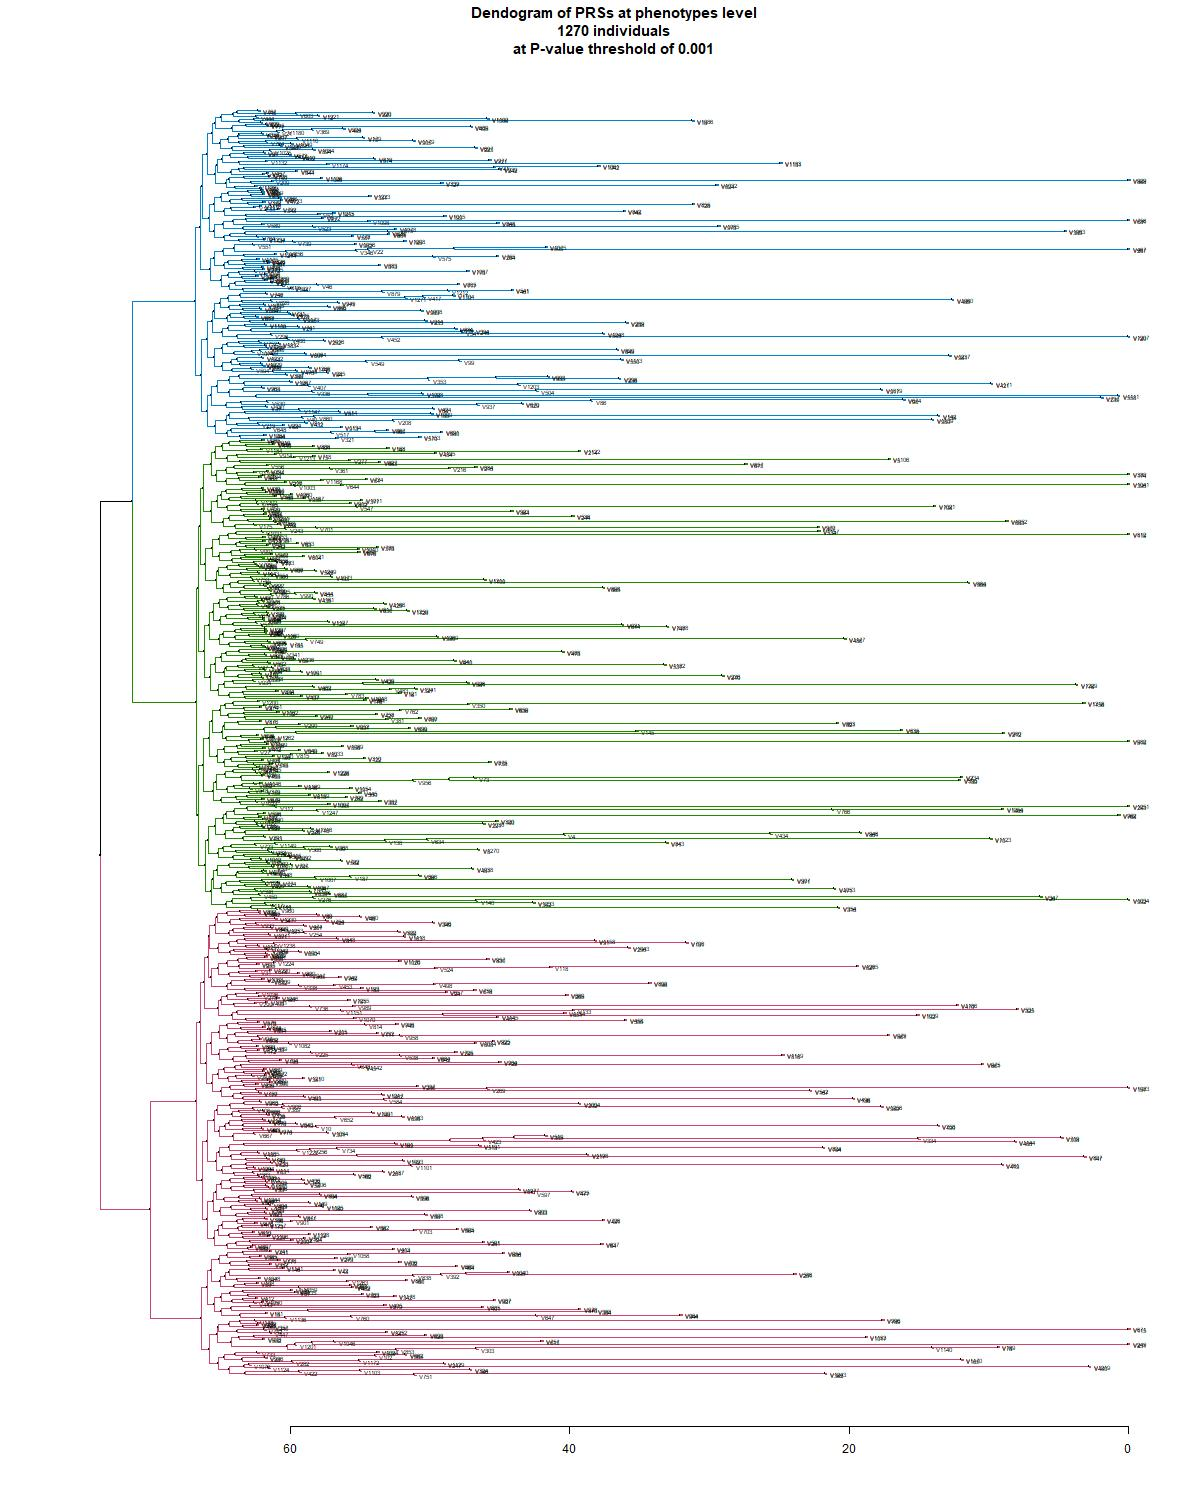
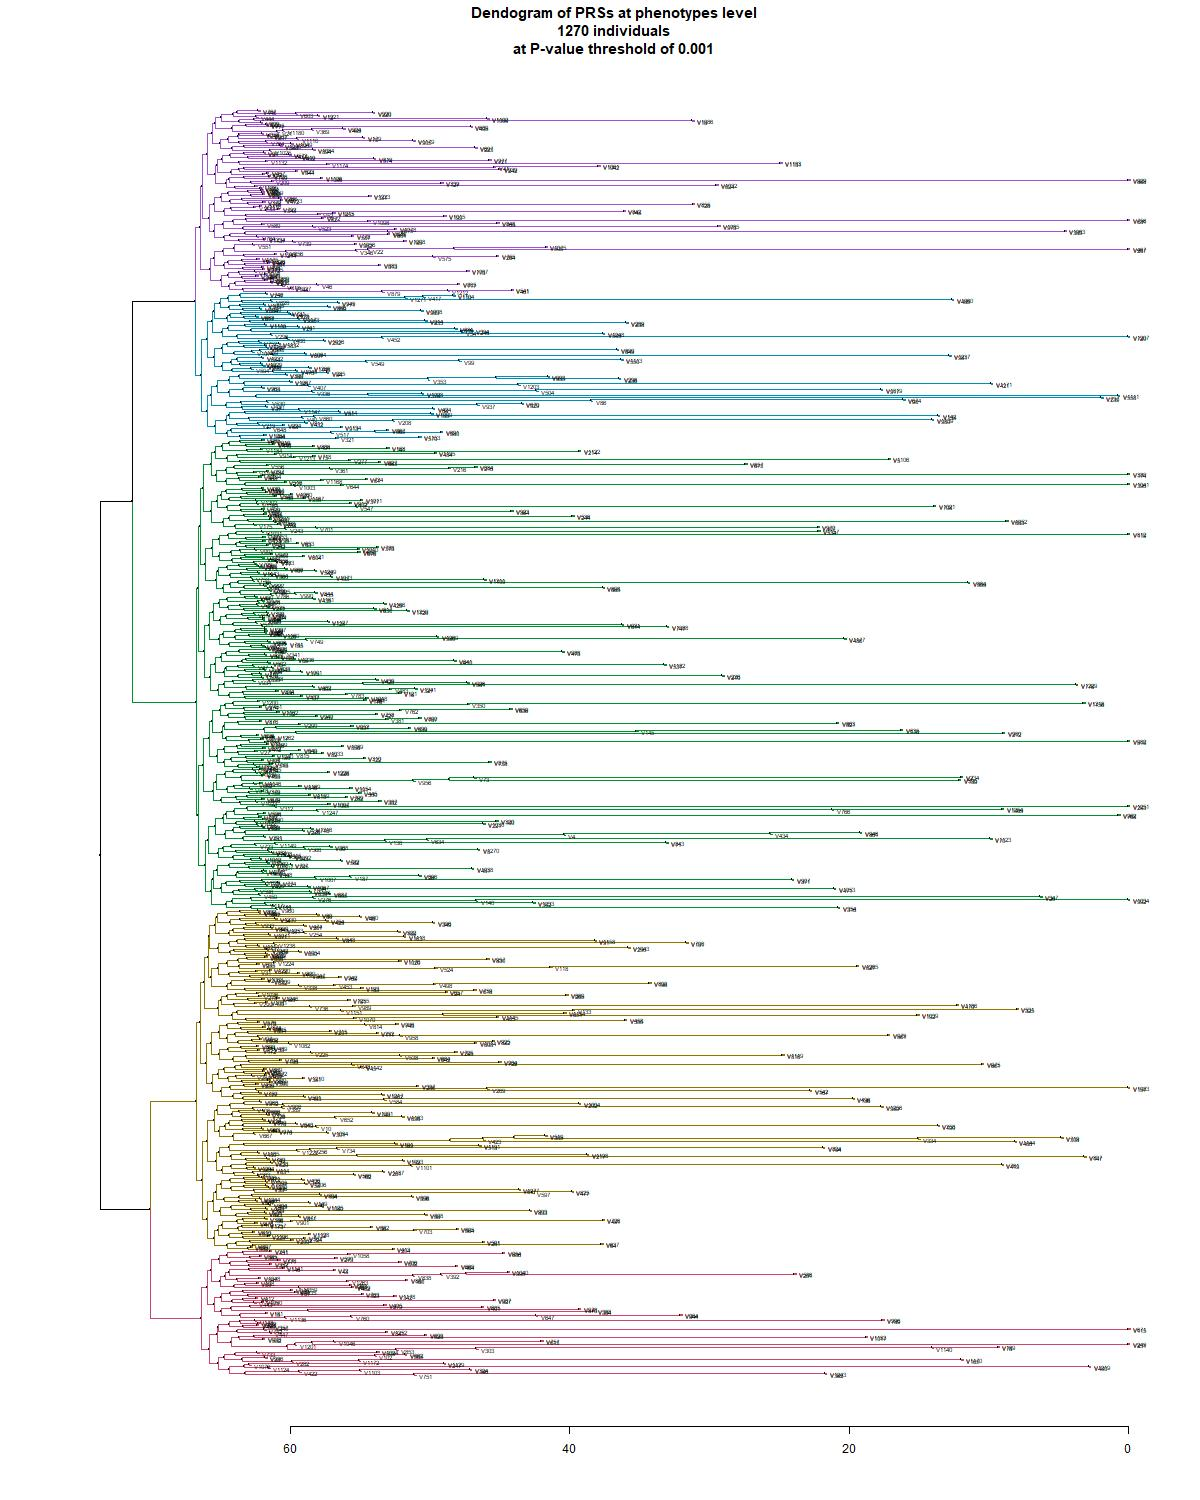
Updated files

diff --git a/Pan_UKBB/Phenotype_selection_annotation.py b/Pan_UKBB/Phenotype_selection_annotation.py
@@ -83,7 +83,7 @@ ukbb_manifest_EUR_h2_05_both_sex.to_csv('/Users/amink/OneDrive/Documents/Current
 
 # use once you have th final PRS
 #ukbb_manifest_main = pd.read_csv('/Users/amink/OneDrive/Documents/Current Jobs/Masters Thesis/Code/Master_Thesis/Pan_UKBB/ukbb_manifest_EUR_h2_05_both_sex_selected_pheno.csv')
-ukbb_manifest_main = pd.read_csv('/Users/amink/OneDrive/Documents/Current Jobs/Masters Thesis/Code/Master_Thesis/Pan_UKBB/Pan_UK_Biobank_phenotype_manifest_h2_more_0.05_both_sex_non_ambigous.csv')
+ukbb_manifest_main = pd.read_csv('/Users/amink/OneDrive/Documents/Current Jobs/Masters Thesis/Code/Master_Thesis/Pan_UKBB/OLD/Pan_UK_Biobank_phenotype_manifest_h2_more_0.05_both_sex_non_ambigous.csv')
 
 ###print(ukbb_manifest_main.shape) # (1272, 49)
 print(ukbb_manifest_main.shape) # (1305, 49)
@@ -104,9 +104,9 @@ for rows in range(1305):
       phenocode_annotate = 'CA_'+ row.category.split(">",)[-1].replace(' ','_') + '_h' + str("{:.5f}".format(row.saige_heritability_EUR)) + '_n' + row.n_cases_full_cohort_both_sexes.astype(str)
    if row['trait_type'] =='continuous':
       phenocode_annotate = 'CO_'+ row.category.split(">",)[-1][5:].replace(' ','_') + '_h' + str("{:.5f}".format(row.saige_heritability_EUR)) + '_n' + row.n_cases_full_cohort_both_sexes.astype(str)
-   phenocode_annotate_lst = phenocode_annotate_lst +[phenocode_annotate]
+   phenocode_annotate_lst = phenocode_annotate_lst +[phenocode_annotate.replace('__','_')]
 
 ukbb_manifest_main['phenocode_annotate_lst'] = phenocode_annotate_lst
 
 # Saving this file
-ukbb_manifest_main.to_csv('/Users/amink/OneDrive/Documents/Current Jobs/Masters Thesis/Code/Master_Thesis/Pan_UKBB/ukbb_manifest_EUR_h2_05_both_sex_annotated.csv')
+ukbb_manifest_main.to_csv('/Users/amink/OneDrive/Documents/Current Jobs/Masters Thesis/Code/Master_Thesis/Pan_UKBB/OLD/ukbb_manifest_EUR_h2_05_both_sex_annotated.csv')

diff --git a/Analysis/Hierarchical_Clustering_Plotting.md b/Analysis/Hierarchical_Clustering_Plotting.md
@@ -8,7 +8,6 @@ the PRSs.
 
 ``` r
 knitr::opts_chunk$set(echo = TRUE, warning = FALSE)
-op <- par(mfrow=c(1,2), mar=c(3,1,1,1))
 for(prs_matrix in names(results1)){
                 clusters <- results1[[prs_matrix]]$clust.var
                 dend <- as.dendrogram(clusters)
@@ -54,7 +53,6 @@ for(prs_matrix in names(results1)){
                                 # circlize_dendrogram(dend)
                 }
 }
-par(op)
 ```
 
 We take a look at the Dendogram of the phenotypes of the residuals of
@@ -62,7 +60,6 @@ PRSs at an individual level.
 
 ``` r
 knitr::opts_chunk$set(echo = TRUE, warning = FALSE)
-op <- par(mfrow=c(1,2), mar=c(3,1,1,1))
 for(prs_matrix in names(results1)){
                 clusters <- results1[[prs_matrix]]$clust.ind
                 dend <- as.dendrogram(clusters)
@@ -108,5 +105,4 @@ for(prs_matrix in names(results1)){
                                 # circlize_dendrogram(dend)
                 }
 }
-par(op)
 ```
